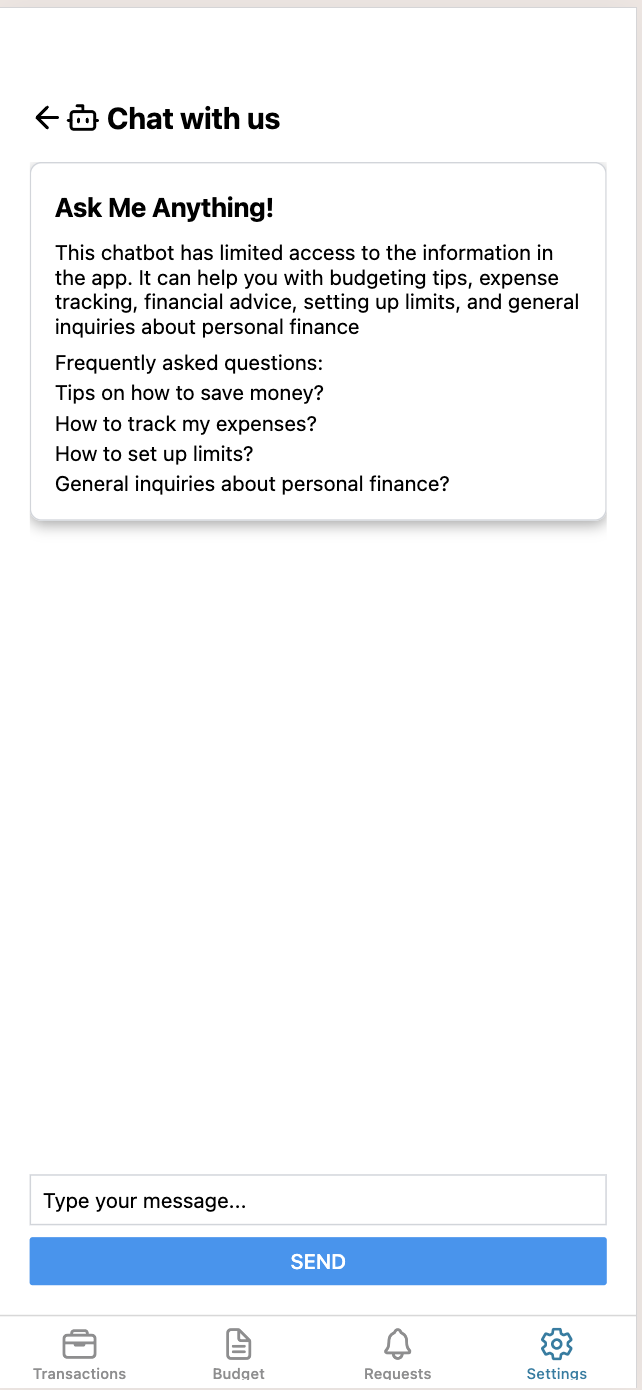
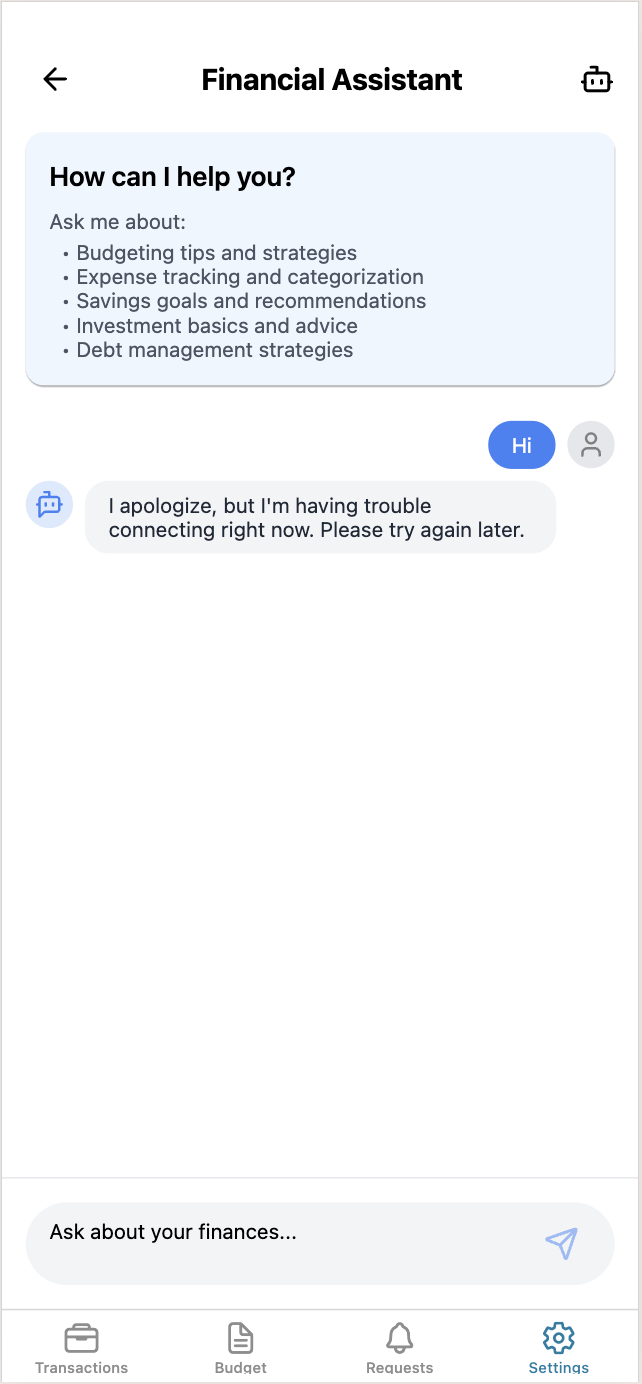
changed the layout of the chatbot and updated the README file

diff --git a/app/(tabs)/(Settings)/chatbot.tsx b/app/(tabs)/(Settings)/chatbot.tsx
@@ -1,79 +1,132 @@
 import { router } from 'expo-router';
 import React, { useState } from 'react';
-import { View, Text, TextInput, Button, ScrollView, TouchableOpacity } from 'react-native';
-import { ArrowLeft, Bot, BotMessageSquare } from 'lucide-react-native';
+import { View, Text, TextInput, TouchableOpacity, ScrollView, KeyboardAvoidingView, Platform } from 'react-native';
+import { ArrowLeft, Bot, Send, BotMessageSquare, User } from 'lucide-react-native';
 import axios from 'axios';
 
 const Chatbot = () => {
   const [input, setInput] = useState('');
   const [messages, setMessages] = useState<{ user: string; bot: string }[]>([]);
+  const [isLoading, setIsLoading] = useState(false);
 
   const handleSend = async () => {
-    const userMessage = input;
-    setMessages([...messages, { user: userMessage, bot: '' }]);
-    setInput('');
-
-    // chatbot API endpoint and with the correct API key from the .env file
-    const apiKey = process.env.EXPO_PUBLIC_CHATBOT_API_KEY;
-    const apiUrl = process.env.EXPO_PUBLIC_CHATBOT_API_URL;
+    if (!input.trim()) return;
     
-    const response = await axios.post('YOUR_CHATBOT_API_URL', { message: userMessage });
-    const botMessage = response.data.reply; 
+    const userMessage = input;
+    setMessages(prev => [...prev, { user: userMessage, bot: '' }]);
+    setInput('');
+    setIsLoading(true);
 
-    setMessages(prev => {
-      const updatedMessages = [...prev];
-      updatedMessages[updatedMessages.length - 1].bot = botMessage;
-      return updatedMessages;
-    });
+    try {
+      const apiKey = process.env.EXPO_PUBLIC_CHATBOT_API_KEY;
+      const apiUrl = process.env.EXPO_PUBLIC_CHATBOT_API_URL;
+      
+      if (!apiUrl) {
+        throw new Error('API URL not configured');
+      }
+      
+      const response = await axios.post(apiUrl, { 
+        message: userMessage,
+        context: "You are a financial advisor AI assistant. Help users with budgeting, savings, and investment advice."
+      });
+      
+      setMessages(prev => {
+        const updatedMessages = [...prev];
+        updatedMessages[updatedMessages.length - 1].bot = response.data.reply;
+        return updatedMessages;
+      });
+    } catch (error) {
+      setMessages(prev => {
+        const updatedMessages = [...prev];
+        updatedMessages[updatedMessages.length - 1].bot = "I apologize, but I'm having trouble connecting right now. Please try again later.";
+        return updatedMessages;
+      });
+    } finally {
+      setIsLoading(false);
+    }
   };
 
   return (
-    <View className="flex-1 p-5 bg-white">
-        <View className="flex-row items-center justify-row pt-10">
-          <View className="flex-row items-center mb-4">
-            <TouchableOpacity onPress={() => router.push('/(tabs)/(Settings)/settings')}>
-              <ArrowLeft size={24} color="black" />
-            </TouchableOpacity>
-            <Bot size={24} color="black" />
+    <KeyboardAvoidingView 
+      behavior={Platform.OS === "ios" ? "padding" : "height"}
+      className="flex-1 bg-white"
+    >
+      <ScrollView className="flex-1 px-4">
+        {/* Header */}
+        <View className="flex-row items-center justify-between pt-8 pb-4">
+          <TouchableOpacity 
+            onPress={() => router.back()} 
+            className="p-2"
+          >
+            <ArrowLeft size={24} color="black" />
+          </TouchableOpacity>
+          <Text className="text-xl font-bold">Financial Assistant</Text>
+          <Bot size={24} color="black" />
+        </View>
+
+        {/* Info Box */}
+        <View className="bg-blue-50 rounded-xl p-4 mb-6 shadow-sm">
+          <Text className="text-lg font-semibold mb-2">How can I help you?</Text>
+          <Text className="text-gray-600 mb-1">Ask me about:</Text>
+          <View className="ml-2">
+            <Text className="text-gray-600">• Budgeting tips and strategies</Text>
+            <Text className="text-gray-600">• Expense tracking and categorization</Text>
+            <Text className="text-gray-600">• Savings goals and recommendations</Text>
+            <Text className="text-gray-600">• Investment basics and advice</Text>
+            <Text className="text-gray-600">• Debt management strategies</Text>
           </View>
-          <Text className="text-xl font-bold mb-4"> Chat with us</Text>
         </View>
 
-      <ScrollView>
-        <View className="border border-gray-300 rounded-lg p-4 mb-4 shadow-md">
-        <Text className="font-bold text-lg">Ask Me Anything!</Text>
-          <Text className="mt-2">This chatbot has limited access to the information in the app. It can help you with budgeting tips, expense tracking, financial advice, setting up limits, and general inquiries about personal finance</Text>
-          <Text className="mt-2">Frequently asked questions:</Text>
-          <Text className="mt-1">Tips on how to save money?</Text>
-          <Text className="mt-1">How to track my expenses?</Text>
-          <Text className="mt-1">How to set up limits?</Text>
-          <Text className="mt-1">General inquiries about personal finance?</Text>
-        </View>
-
+        {/* Messages */}
         {messages.map((msg, index) => (
-          <View key={index}>
-            <Text style={{ fontWeight: 'bold' }}>You: {msg.user}</Text>
-            <View style={{ 
-              borderRadius: 8,
-              padding: 10,
-              marginVertical: 5,
-              flexDirection: 'row',
-              alignItems: 'center'
-            }}>
-              <BotMessageSquare size={20} color="gray" style={{ marginRight: 8 }} />
-              <Text style={{ color: 'gray', flex: 1 }}>Bot: {msg.bot}</Text>
+          <View key={index} className="mb-4">
+            {/* User Message */}
+            <View className="flex-row items-start justify-end mb-2">
+              <View className="bg-blue-500 rounded-2xl px-4 py-2 max-w-[80%]">
+                <Text className="text-white">{msg.user}</Text>
+              </View>
+              <View className="w-8 h-8 bg-gray-200 rounded-full ml-2 items-center justify-center">
+                <User size={20} color="gray" />
+              </View>
+            </View>
+
+            {/* Bot Message */}
+            <View className="flex-row items-start">
+              <View className="w-8 h-8 bg-blue-100 rounded-full mr-2 items-center justify-center">
+                <BotMessageSquare size={20} color="#3b82f6" />
+              </View>
+              <View className="bg-gray-100 rounded-2xl px-4 py-2 max-w-[80%]">
+                <Text className="text-gray-800">
+                  {msg.bot || (isLoading ? "Thinking..." : "...")}
+                </Text>
+              </View>
             </View>
           </View>
         ))}
       </ScrollView>
-      <TextInput
-        value={input}
-        onChangeText={setInput}
-        placeholder="Type your message..."
-        className="border border-gray-300 p-2 mb-2"
-      />
-      <Button title="Send" onPress={handleSend} />
-    </View>
+
+      {/* Input Area */}
+      <View className="p-4 border-t border-gray-200">
+        <View className="flex-row items-center bg-gray-100 rounded-full px-4 py-2">
+          <TextInput
+            value={input}
+            onChangeText={setInput}
+            placeholder="Ask about your finances..."
+            className="flex-1 mr-2"
+            multiline
+            maxLength={500}
+            onSubmitEditing={handleSend}
+          />
+          <TouchableOpacity 
+            onPress={handleSend}
+            disabled={isLoading || !input.trim()}
+            className={`p-2 rounded-full ${!input.trim() ? 'opacity-50' : ''}`}
+          >
+            <Send size={24} color="#3b82f6" />
+          </TouchableOpacity>
+        </View>
+      </View>
+    </KeyboardAvoidingView>
   );
 };
 

diff --git a/README.md b/README.md
@@ -1,8 +1,8 @@
 # Mobile Banking App with AI 📊
 
-A React Native app built with Expo for managing personal finances, budgets, tracking expenses with built-in chat assistant.
+A React Native app built with Expo for managing personal finances, budgets, tracking expenses, and featuring an AI-powered financial assistant.
 
-<div style="display: flex; flex-direction: row; flex-wrap: wrap;">
+<div style="display: flex; flex-direction: row; flex-wrap: wrap; gap: 15px; justify-content: center;">
     <img src="./assets/screenshots/dashboard.png" width="230" alt="Dashboard Screenshot"/>
     <img src="./assets/screenshots/budget.png" width="230" alt="Budget Screenshot"/>
     <img src="./assets/screenshots/requests.png" width="230" alt="Requests Screenshot"/>
@@ -10,7 +10,7 @@ A React Native app built with Expo for managing personal finances, budgets, trac
     <img src="./assets/screenshots/paid.png" width="230" alt="Paid Screenshot"/>
     <img src="./assets/screenshots/settings.png" width="230" alt="Settings Screenshot"/>
     <img src="./assets/screenshots/budgetLimits.png" width="230" alt="Budget Limits Screenshot"/>
-     <img src="./assets/screenshots/chatbot.png" width="230" alt="chat assistant Screenshot"/>
+    <img src="./assets/screenshots/chatbot.png" width="230" alt="AI Financial Assistant Screenshot"/>
 </div>
 
 ## Features
@@ -18,9 +18,21 @@ A React Native app built with Expo for managing personal finances, budgets, trac
 - 📈 Budget tracking with dynamic pie chart visualization
 - 💰 Transaction management and categorization
 - 🎯 Customizable budget limits for different categories
+- 🤖 AI-powered financial assistant for personalized advice
 - 📱 Cross-platform support (iOS, Android, Web)
 - 💾 Persistent storage of user preferences and budget data
+- 💬 Real-time chat interface for financial guidance
+- 📊 Interactive spending analytics and insights
 
+## AI Financial Assistant
+
+Our built-in AI assistant helps you with:
+- Personalized budgeting advice
+- Expense tracking strategies
+- Investment recommendations
+- Debt management tips
+- Savings goals planning
+- General financial education
 
 ## Getting Started
 
@@ -29,12 +41,14 @@ A React Native app built with Expo for managing personal finances, budgets, trac
    npm install
    ```
    
-2. Install required packages
+2. Configure environment variables
    ```bash
-   npx expo install @react-native-async-storage/async-storage
+   # Create a .env file and add:
+   EXPO_PUBLIC_CHATBOT_API_KEY=your_api_key
+   EXPO_PUBLIC_CHATBOT_API_URL=your_api_url
    ```
    
-3. Start the app
+4. Start the app
    ```bash
    npx expo start
    ```
@@ -46,6 +60,7 @@ A React Native app built with Expo for managing personal finances, budgets, trac
     - `(Budget)/` - Budget visualization and management
     - `(Transactions)/` - Transaction listing and tracking
     - `(Settings)/` - App settings and budget limits
+      - `chatbot.tsx` - AI Financial Assistant interface
 - `data/` - JSON data files
   - `categoryMappings.json` - Category definitions and transaction mappings
   - `transactions.json` - Transaction data
@@ -59,6 +74,12 @@ A React Native app built with Expo for managing personal finances, budgets, trac
 2. Enter monthly limits for each category
 3. Click "Save Limits" to store your preferences
 
+### Using the AI Financial Assistant
+1. Access the chatbot from the Settings menu
+2. Ask questions about your finances
+3. Get personalized advice and recommendations
+4. Learn about budgeting and financial management
+
 ### Viewing Transactions
 - Recent transactions are automatically categorized
 - View spending patterns in the Budget tab
@@ -68,8 +89,9 @@ A React Native app built with Expo for managing personal finances, budgets, trac
 
 - [Expo](https://expo.dev)
 - [React Native](https://reactnative.dev)
-- [AsyncStorage](https://react-native-async-storage.github.io/async-storage/)
 - [React Navigation](https://reactnavigation.org)
+- [NativeWind](https://www.nativewind.dev)
+- [OpenAI API](https://openai.com) (or your chosen AI provider)
 
 ## Development
 
@@ -78,11 +100,13 @@ To modify category mappings or add new features:
 1. Edit category definitions in `data/categoryMappings.json`
 2. Update transaction data in `data/transactions.json`
 3. Modify component code in the respective tab directories
+4. Configure AI assistant parameters in the chatbot component
 
 ## Learn More
 
 - [Expo Documentation](https://docs.expo.dev/)
 - [React Native Documentation](https://reactnative.dev/docs/getting-started)
+- [NativeWind Documentation](https://www.nativewind.dev/overview/)
 
 ## Join the community
 
